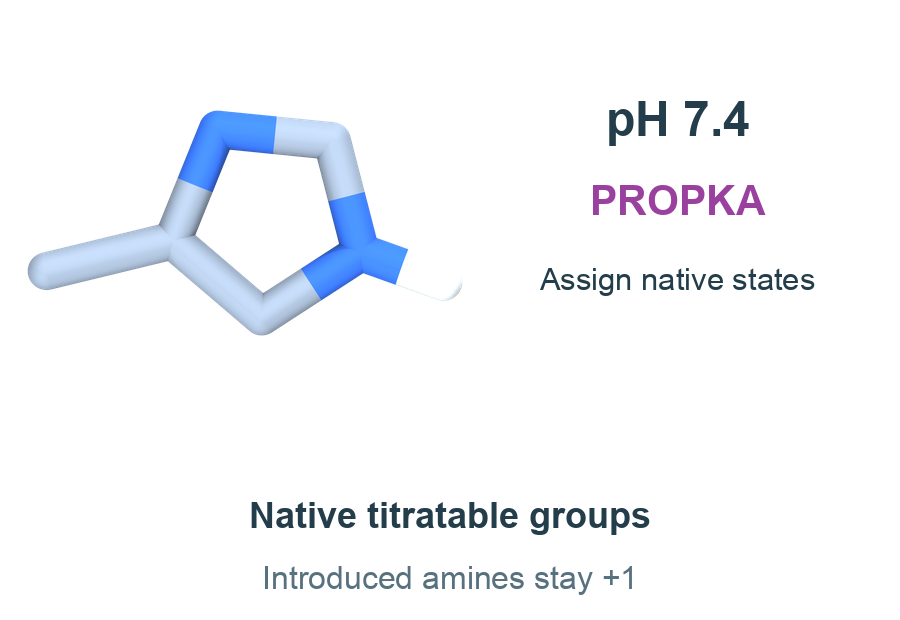
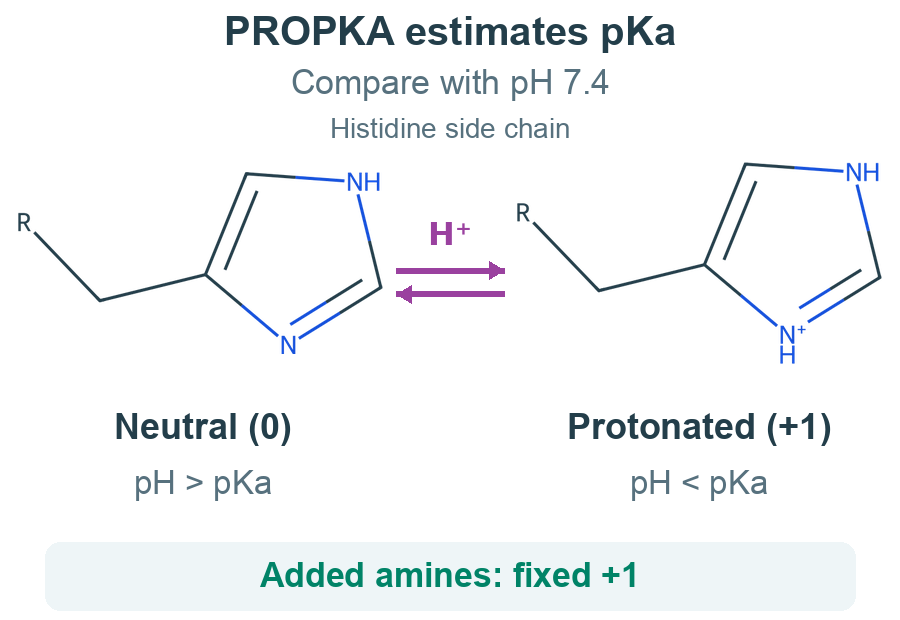
Clarify protonation graphics

diff --git a/examples/HSA/README.md b/examples/HSA/README.md
@@ -95,7 +95,7 @@ The left panel contains the four text labels and highlights the active phase.
 The right panel alternates the saved HSA structures and their calculated
 potential surfaces with fixed illustrations of amidation, minimization and
 protonation. The same three operation examples are repeated in the cycles.
-Their heading is **Method illustration**. HSA structures and surfaces retain
+Their heading is **Cationization workflow**. HSA structures and surfaces retain
 their percentage labels. Native HSA has no amidation page.
 
 ### Electrostatic ranking
@@ -107,7 +107,7 @@ their percentage labels. Native HSA has no amidation page.
 
 The surface is colored by a screened-Coulomb calculation using the native
 topology charges, a solvent dielectric of 78.5, 0.15 M monovalent salt and
-298 K. Orange indicates negative potential, gray zero and violet positive potential. The
+298 K. Blue indicates negative potential, gold zero and red positive potential. The
 display uses the same 3 Å grid and fixed range of −5 to +5 kBT/e for all five
 percentages. Each field is calculated from its own checkpoint coordinates
 and topology charges. The figure uses screened Coulomb; the saved HSA
@@ -142,12 +142,14 @@ minimization; displacements retain their original scale.
 
 <picture>
   <source media="(prefers-color-scheme: dark)" srcset="../../docs/images/cycle_step_protonation_dark.png">
-  <img src="../../docs/images/cycle_step_protonation.png" width="650" alt="Fixed histidine illustration showing native protonation assignment with PROPKA at pH 7.4 and fixed positive introduced amines">
+  <img src="../../docs/images/cycle_step_protonation.png" width="650" alt="PROPKA predicts pKa; a histidine side chain is shown in neutral and protonated forms, with pH-dependent preferences and separately fixed positive added amines">
 </picture>
 
-An imidazole group illustrates a native titratable site. PROPKA checks native
-protonation at pH 7.4; introduced terminal amines remain fixed at +1. This
-operation illustration is the same in every cycle.
+PROPKA estimates pKa from the protein structure. The histidine example compares
+the neutral form (0) with the protonated form (+1). Neutral histidine is favored
+when pH is above its pKa; the positive form is favored below it. The scheme
+uses pH 7.4, and R marks the connection to the protein backbone. Introduced
+amines remain fixed at +1, as shown separately below the equilibrium.
 
 Rendering, source hashes and calculation details are recorded in
 [HSA_PREVIEW.json](../../docs/images/HSA_PREVIEW.json).

diff --git a/docs/VALIDATION.md b/docs/VALIDATION.md
@@ -219,7 +219,7 @@ and shows the molecular images successively on the right. There are no step
 numbers or central reaction formula in the cycle. Each 1600 × 900 GIF has
 24 frames and a 67 s loop. HSA structures and potential surfaces remain
 specific to each percentage. Three fixed operation illustrations are reused
-for amidation, minimization and PROPKA, with the heading "Method illustration"
+for amidation, minimization and PROPKA, with the heading "Cationization workflow"
 and no percentage-specific result labels. The 0% reference has no amidation
 page. The cycle uses equal calculated clearances at arrow endpoints and a
 centered three-line "Amidation / + / rotation" label.
@@ -228,16 +228,20 @@ Five screened-Coulomb fields were calculated with the current function and
 the respective checkpoint coordinates and topology charges, using dielectric
 78.5, 0.15 M salt and 298 K. All fields share a 3 Å grid and a display range
 of −5 to +5 kBT/e. The fields and molecular geometry are unchanged by the new
-orange–gray–violet display scale. The colorbar is read directly from VMD's
-actual 1024-color lookup table. The scale's neutral gray improves visibility
-against white. Both themes use the same scale, and 65 scale colors are
+blue–gold–red display scale. The colorbar is read directly from VMD's
+actual 1024-color lookup table. Saturated controls replace the previous muted
+scale. Both themes use the same scale, and 65 scale colors are
 reserved in the GIF palette.
 
 The operation illustrations reuse one archived example: Asp249 modification
-and local minimization from step 99, and an HIE imidazole fragment. These
+and local minimization from step 99, plus a chemical histidine protonation scheme. These
 images explain operations throughout the cycle. The minimization overlay
 retains its rigid local fit and original displacement scale. Percentage-specific
-residue identities and pKa values are omitted from these illustrative pages.
+residue identities and pKa values are omitted from these pages. The two
+histidine drawings have the same heavy-atom graph, formal charges 0 and +1,
+and differ by exactly one proton. Their atom positions match between states.
+The scheme distinguishes the pH-dependent native groups from the fixed +1
+introduced amines. Repeated local-example labels have been removed.
 
 The percentage-specific molecular images were rendered at 3840 × 2160 with
 VMD/Tachyon. Protein crops are downsampled without upsampling. GIF frames are
